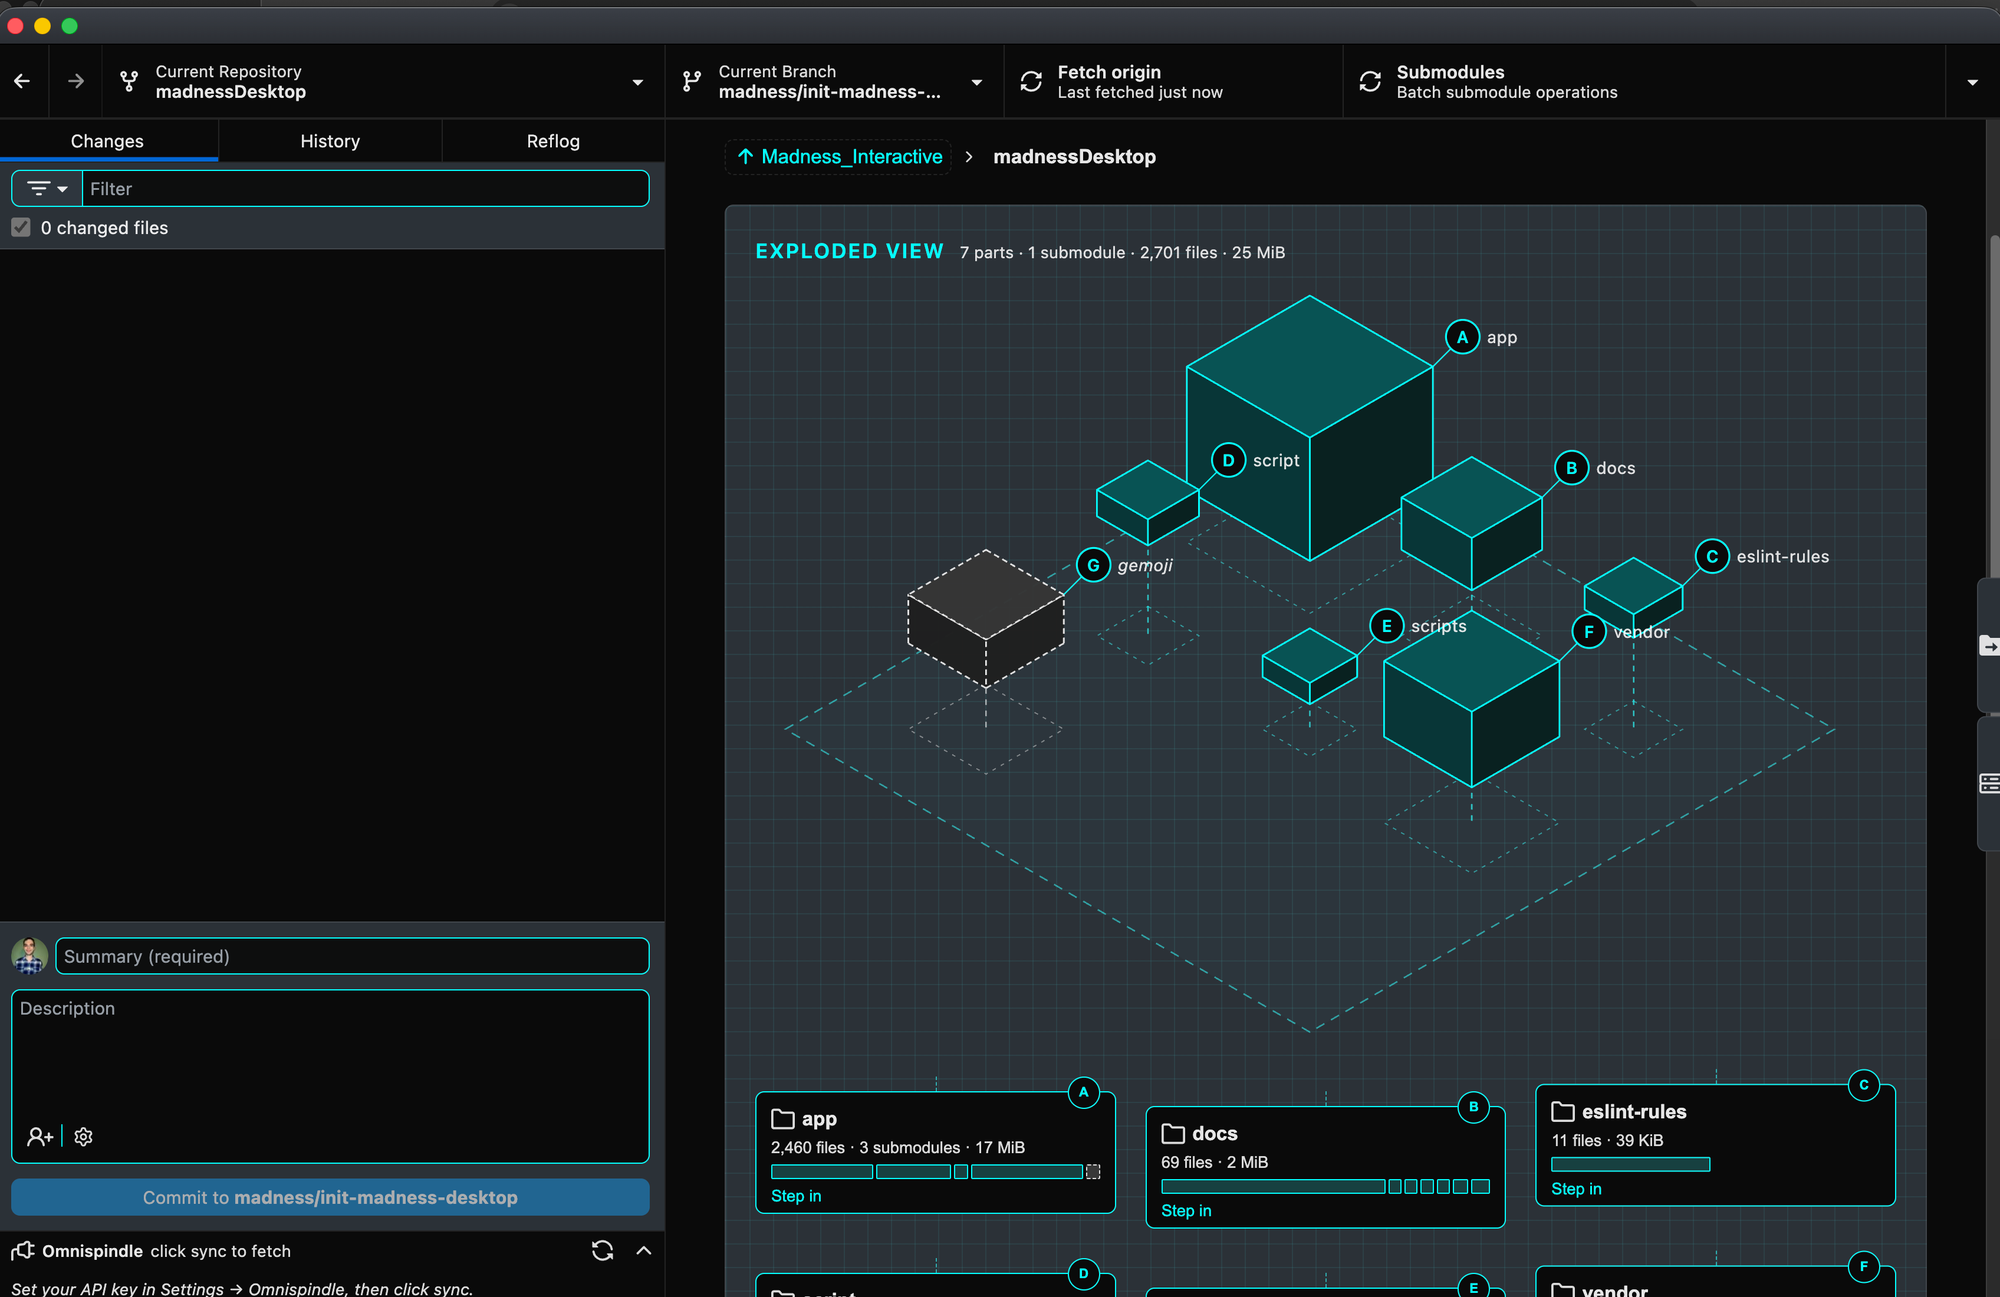
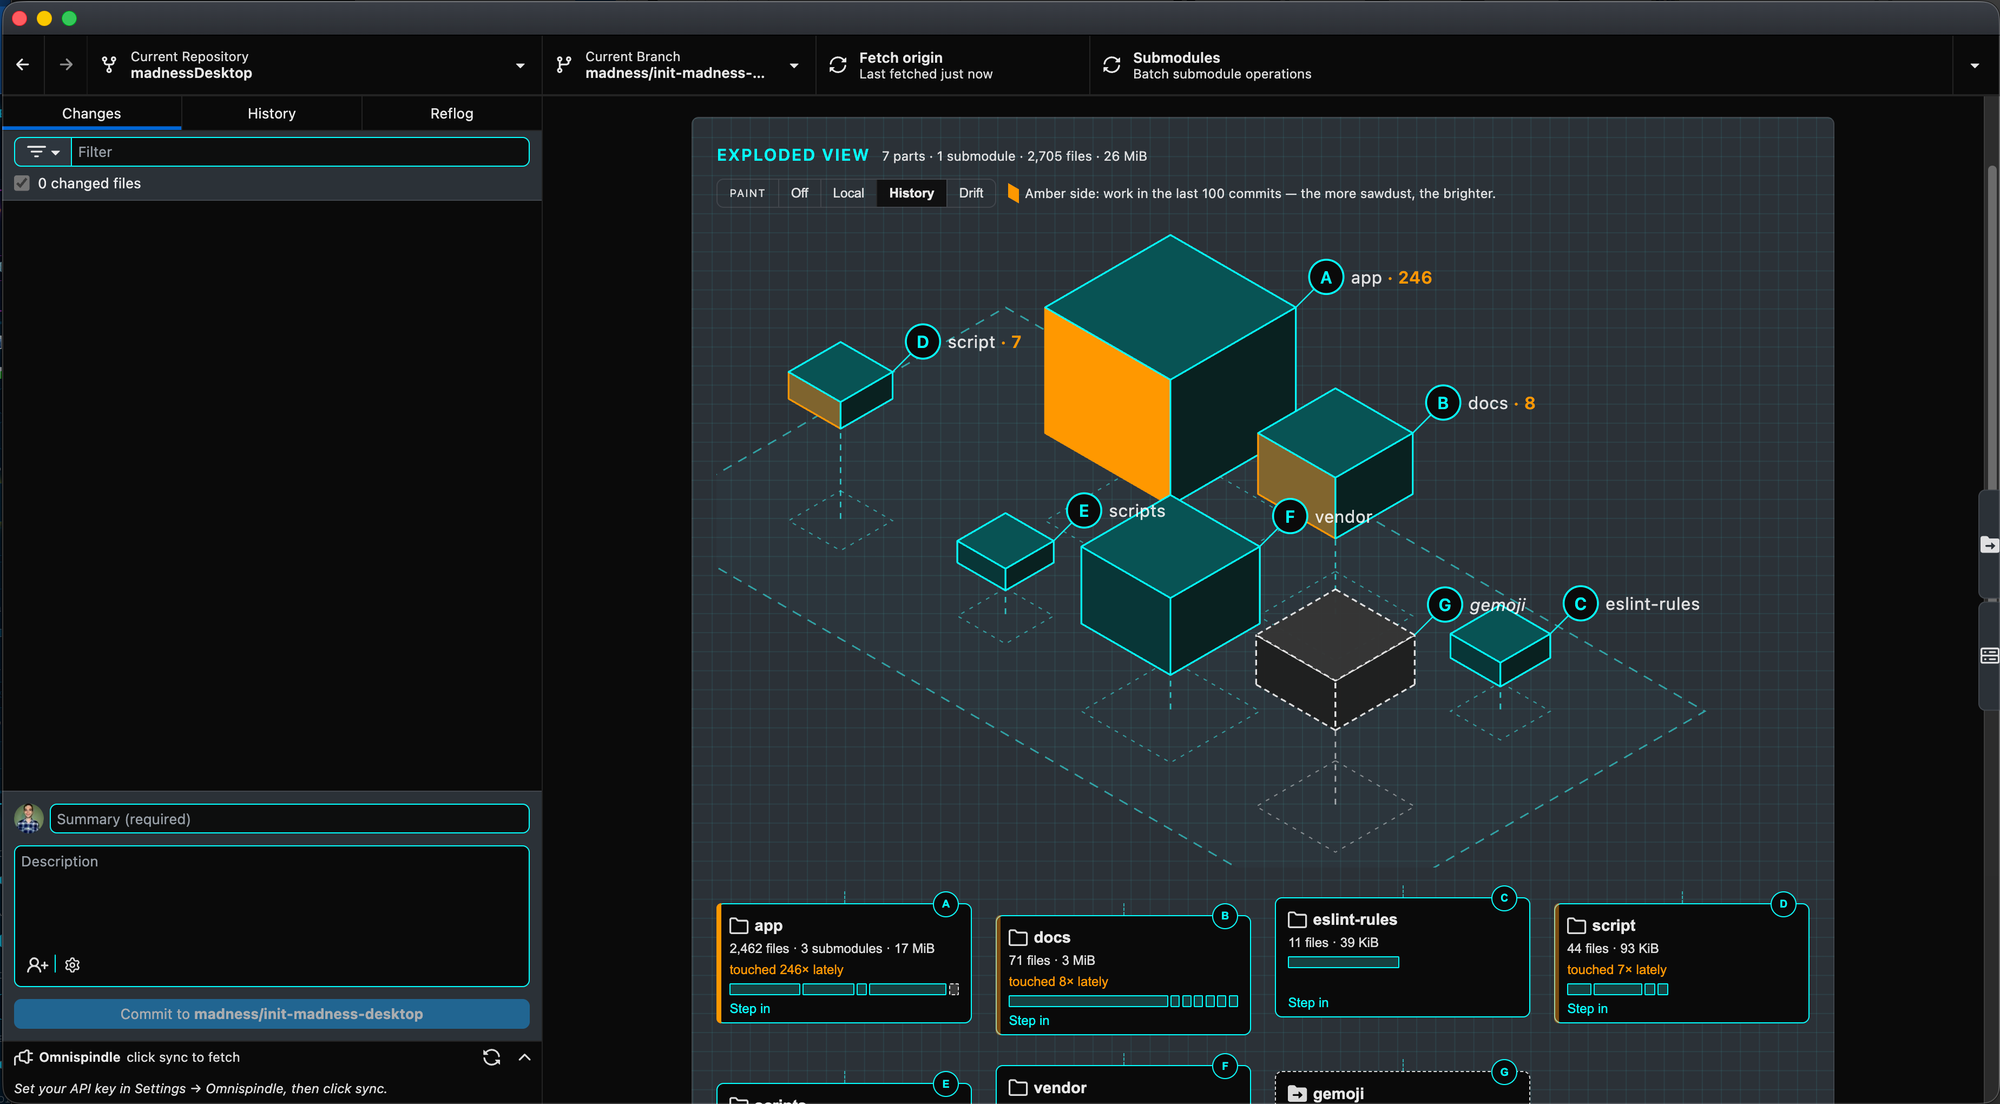
docs(readme): show the exploded view with History paint
Swaps the hero screenshot for one of Madness Desktop itself with History
paint on, and mentions paint in the Exploded view feature bullet.

Claude-Session: https://claude.ai/code/session_01Pp6pGrehFq7wnMUwcbJW9B

Changed region(s): [[0.0, 0.0, 1.0, 1.0]]

diff --git a/README.md b/README.md
@@ -4,7 +4,7 @@ A [GitHub Desktop](https://github.com/desktop/desktop) fork wired into the **mad
 
 > **Early build.** Currently `v0.1.0` — an **unsigned macOS build for Apple Silicon (arm64)**. No Intel, Windows, or Linux release yet. The source still builds for other platforms (it's a Desktop fork), but the only thing we ship today is the arm64 macOS zip.
 
-![Madness Desktop's exploded view: the repository drawn as an isometric assembly of lettered parts, with its submodule as a dashed crate](docs/assets/exploded-view.png)
+![Madness Desktop's exploded view: the repository drawn as an isometric assembly of lettered parts, its submodule a dashed crate, with History paint marking the busiest parts in amber](docs/assets/exploded-view.png)
 
 ## Where can I get it?
 
@@ -29,7 +29,7 @@ Everything GitHub Desktop does, plus workshop coordination:
 - **[Hook Loadouts](https://github.com/MadnessEngineering/madnessDesktop/blob/HEAD/docs/hook-loadouts.md)** — install and toggle bundles of git-hook scripts per repository from the UI. A thin `.d/` dispatcher lets multiple scripts stack on the same hook without clobbering each other, and recent hook runs show up in a log in the Changes sidebar. Presets: `mad-standard`, `deploy-enabled`, `desktop-dev`, `minimal`.
 - **[MQTT integration](https://github.com/MadnessEngineering/madnessDesktop/blob/HEAD/docs/mqtt-integration.md)** — publish commit context and events to a shared broker. Every machine on the network sees real-time git activity from every other machine.
 - **[Omnispindle todos](https://github.com/MadnessEngineering/madnessDesktop/blob/HEAD/docs/ecosystem.md)** — a live todo list from the Omnispindle MCP server in the Changes sidebar, plus a `todo-prefix` hook that stamps the active todo ID into your commit message.
-- **Exploded view** — when a repository has no local changes, flip the page to an instruction-manual drawing of it: every folder a lettered part sized by weight, submodules as dashed crates, tool dot-folders set aside, and a materials list underneath. Step into a folder to take it apart too, or into a submodule to switch the app to it — and back out again from the breadcrumb.
+- **Exploded view** — when a repository has no local changes, flip the page to an instruction-manual drawing of it: every folder a lettered part sized by weight, submodules as dashed crates, tool dot-folders set aside, and a materials list underneath. Step into a folder to take it apart too, or into a submodule to switch the app to it — and back out again from the breadcrumb. **Paint** marks where the work is, one amber side per part: your uncommitted changes (also reachable from the diff header while you have them), the last 100 commits' history, or submodules drifting off their pins.
 - **Subrepo tooling** — submodules nest under their monorepo as collapsible folders, un-added submodules appear as "ghost" rows with one-click **Add**, submodule commit history shows up in diffs, and push/pull steps through each submodule before the parent.
 
   ![A submodule pointer change in the parent repository, listing the commits it brings in, with Sync and Rollback](docs/assets/submodule-changes.png)
